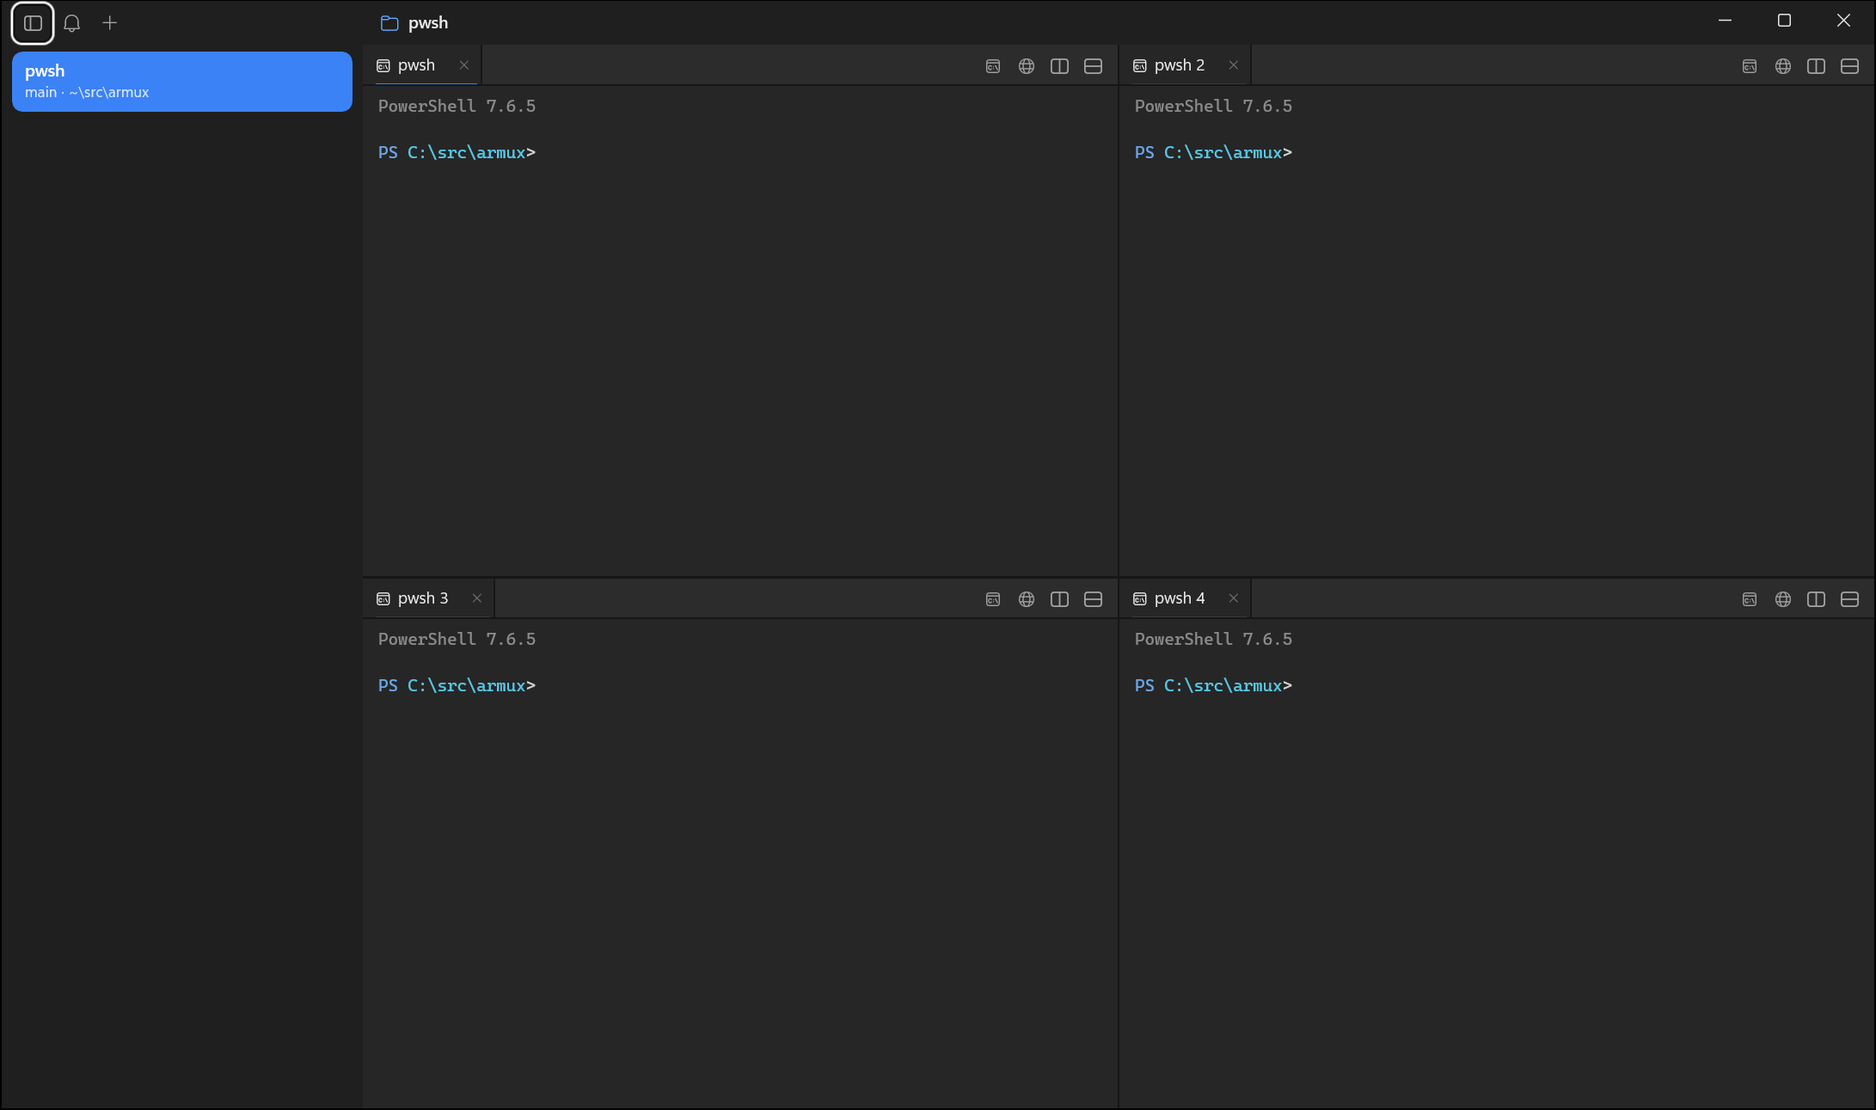
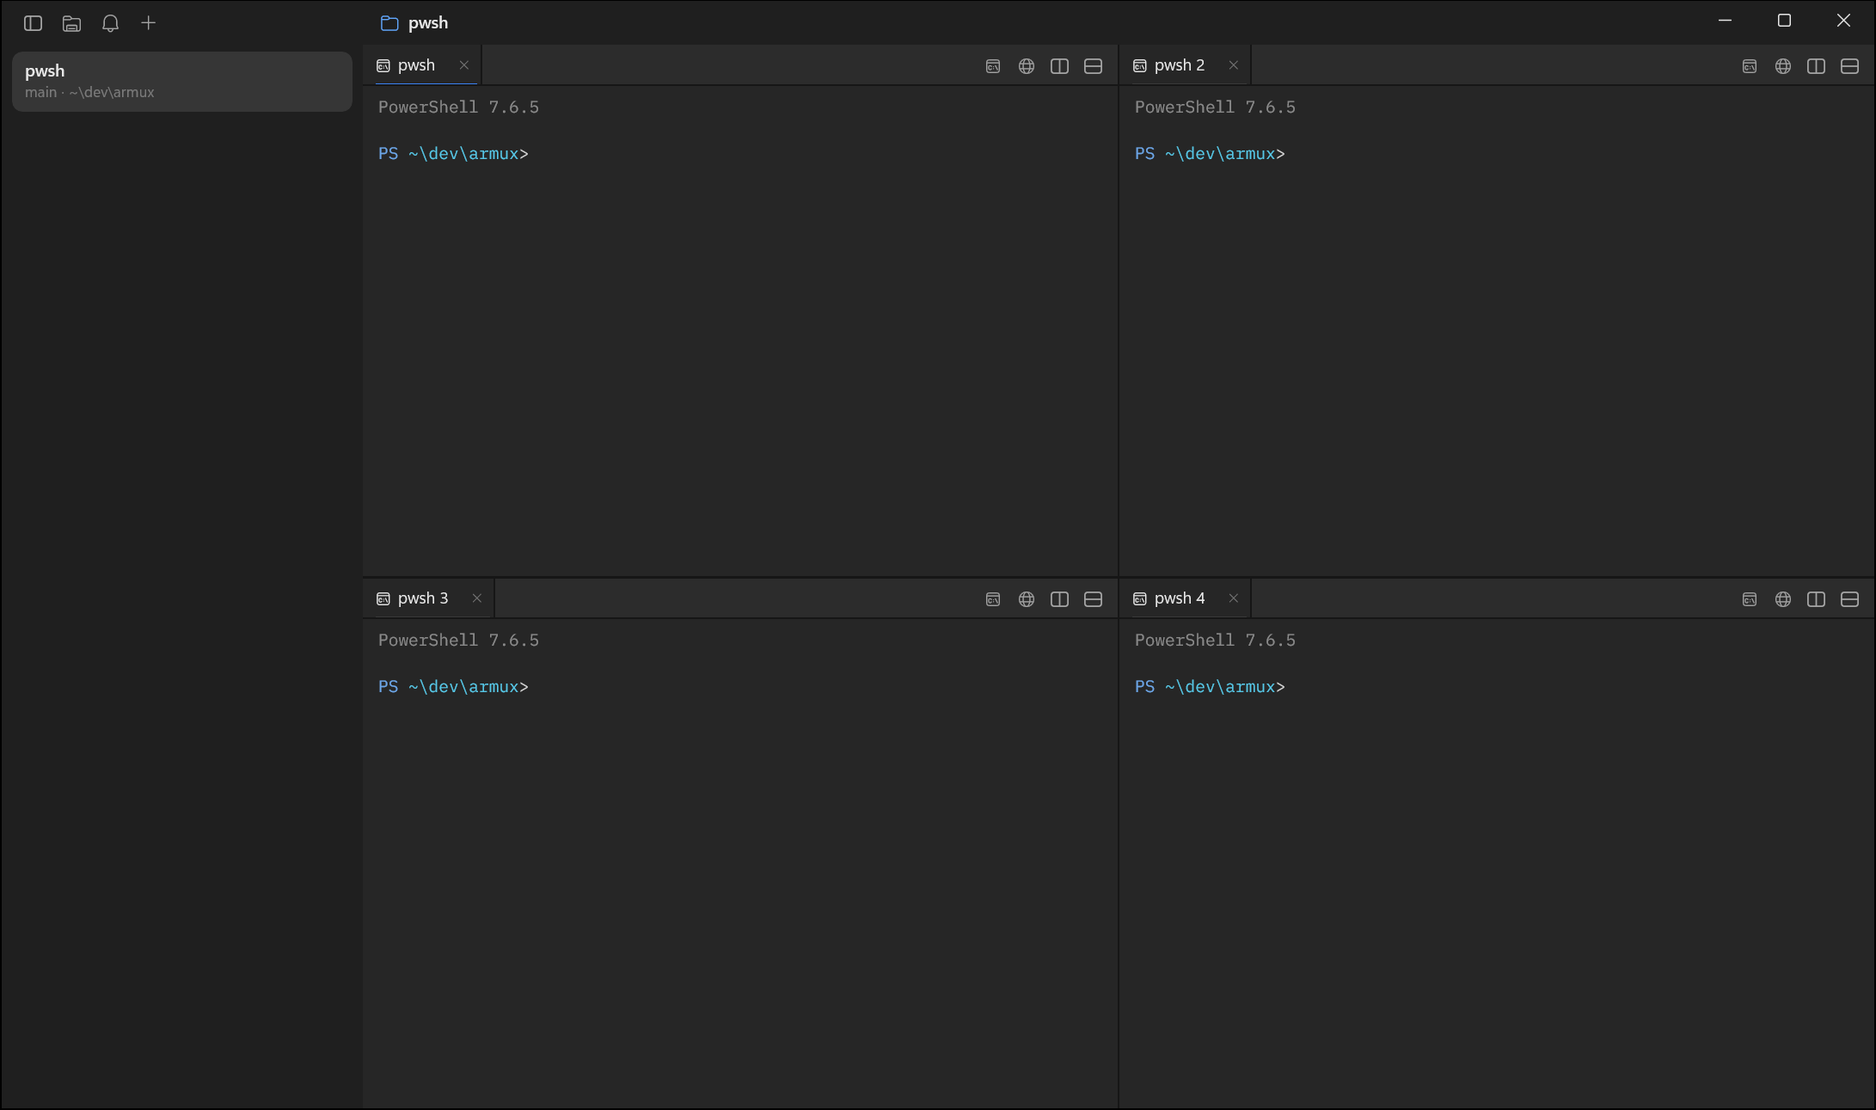
docs: record review round 1 changes, memory results and deviations
Adds deviations D-12 to D-17, the new shortcuts, the Lilex entry and
OFL-1.1 (fonts only) in the dependency register, explorer memory
results, and screenshots 11 (explorer) and 12 (settings). Screenshots
01-09 are regenerated with the gray selection.

diff --git a/ARCHITECTURE.md b/ARCHITECTURE.md
@@ -1,6 +1,6 @@
 # armux architecture
 
-Status: **Phase 2 complete, awaiting maintainer review.** The cmux-style UI runs on mock data, built with WinUI 3 and published as NativeAOT. Measurements are in section 7. Sections marked _Phase 3_ are plans. Nothing in this file claims a measured number unless it gives the method and date.
+Status: **Phase 2 complete; review round 1 changes applied (2026-10-26), awaiting maintainer review.** The cmux-style UI runs on mock data, built with WinUI 3 and published as NativeAOT. Measurements are in section 7. Sections marked _Phase 3_ are plans. Nothing in this file claims a measured number unless it gives the method and date.
 
 ## 1. Scope
 
@@ -72,7 +72,7 @@ Every UI element traces to a cmux feature. Windows deviations link to section 9.
 | cmux feature (source) | armux element | Phase 2 status | Screenshot | Deviation |
 |---|---|---|---|---|
 | Vertical sidebar of workspaces: title, latest notification text, branch, directory, ports, PR (README) | `SidebarRow` | Done (mock data) | 01 | — |
-| Unread badge on the workspace row, row lights up when an agent needs attention (README) | Badge on the row; inverted on the selected row | Done | 01, 09 | — |
+| Unread badge on the workspace row, row lights up when an agent needs attention (README) | Badge on the row | Done | 01, 09 | D-12 |
 | Tab colors: right-click a workspace, 17 presets or custom; color on the tab and the indicator rail (changelog 0.61.0) | Context menu, swatch flyout, `ColorPicker` for custom | Done | 04, 05 | D-10 |
 | Workspace indicator style Accent / Underline / None (cmux settings) | Left rail (default) or underline; palette commands switch it | Done | 01 | — |
 | Pin a workspace to the top (changelog 0.61.0) | Pin from the context menu, pin glyph on the row | Done | 01 | — |
@@ -84,19 +84,21 @@ Every UI element traces to a cmux feature. Windows deviations link to section 9.
 | Notification panel `⌘I`, jump to latest unread `⌘⇧U`, toggle unread, mark all read, clear (README) | Bell flyout with count, palette commands | Done | 03 | D-04 |
 | Flash focused panel `⌘⇧H` (README) | Ring pulse animation | Done | — | — |
 | Theme follows system / light / dark (cmux settings) | Dark and light token sets, "Match Windows" command | Done | 07 | D-07 |
-| Clear scrollback, font size | Clear scrollback (mock) | Partial: font size in Phase 3 | — | — |
+| Clear scrollback, font size | Clear scrollback (mock); font size commands | Done | — | — |
+| Settings window `⌘,` (cmux settings) | Settings dialog: terminal font and size, interface font | Done (fonts only) | 12 | D-15, D-16 |
+| _Not in cmux:_ Warp's file tree (docs.warp.dev, "File Tree") | `ExplorerPanel` beside the sidebar, read-only `FileView` tabs | Done | 11 | D-13, D-17 |
 | Desktop notification when a process needs attention (README) | Windows toast | Phase 3 | — | D-04 |
 | OSC 9, OSC 99, OSC 777 detection (README) | OSC parser in the terminal pipeline | Phase 3 (Phase 2 has "Simulate Agent Notification") | — | — |
 | `cmux notify` CLI, socket API (README) | `armux notify`, named-pipe API | Phase 3 | — | D-06 |
-| Find, find in directory, settings window, session restore | — | Phase 3 or later | — | — |
+| Find, find in directory, session restore | — | Phase 3 or later | — | — |
 | SSH workspaces, Cloud workspaces, Claude Code Teams, browser import | — | Not planned | — | — |
 
 ### Comparison with cmux screenshots
 
 Compared by eye against cmux's README images `main-first-image.png`, `vertical-horizontal-tabs-and-splits.png`, `notification-rings.png`, `sidebar-notification-badge.png` and `built-in-browser.png`.
 
-- **Matches:** title row with sidebar toggle, bell with count and `+`, then folder icon and workspace title. Selected workspace as a filled blue rounded block with white text. Badge, title, notification text and `branch · directory` lines. Per-pane tab bars with the four action buttons. Blue ring on panes needing attention. Browser panel with back, forward, reload and an address bar. Thin dividers between panes.
-- **Differs, by request:** Windows caption buttons on the right instead of macOS traffic lights (D-08). Segoe UI Variable instead of SF Pro (D-09).
+- **Matches:** title row with sidebar toggle, bell with count and `+`, then folder icon and workspace title. Selected workspace as a filled rounded block (gray in armux, D-12). Badge, title, notification text and `branch · directory` lines. Per-pane tab bars with the four action buttons. Blue ring on panes needing attention. Browser panel with back, forward, reload and an address bar. Thin dividers between panes.
+- **Differs, by request:** Windows caption buttons on the right instead of macOS traffic lights (D-08). Segoe UI Variable instead of SF Pro, Lilex for terminals (D-09, D-15). Gray selected workspace (D-12). File explorer button and column (D-13).
 - **Differs, not yet built:** cmux's terminal content is a real Ghostty terminal; armux shows static mock text until Phase 3. cmux's address bar row has extra browser tool icons, which armux omits.
 
 ## 6. Stack
@@ -197,6 +199,30 @@ Same device as section 6. Window 1440×900 physical pixels at 150% scale. Settle
 
 The same scenarios with the JIT build (`dotnet build`) measured idle 134.9 / 56.6 / 34.5 and start 320 ms. Browser-closed retained 122.7 MB private there. The managed heap was 0.8 MB, so that memory was .NET runtime and native commit. Shipping AOT avoids it.
 
+### Review round 1 results (2026-10-26, same build settings)
+
+Measured after the round 1 changes (gray selection, Lilex, settings, file explorer). App-attributable, MB. Explorer runs show this repository.
+
+| Scenario | Working set | Private | Task Manager | Note |
+|---|---|---|---|---|
+| Idle (3 runs) | 94.2–95.7 | 46.1–46.4 | 24.7–25.6 | Same as Phase 2. Lilex instead of Cascadia Mono: +1.3 private. |
+| 8 panes | 110.5 | 61.4 | 40.6 | — |
+| Explorer open (3 runs) | 100.8–105.5 | 52.3–57.2 | 30.4–35.5 | About +6 private over idle |
+| Explorer closed after one open (3 runs) | 100.6–104.2 | 51.6–56.2 | 30.4–33.5 | One-time cost stays (see below) |
+| Explorer opened and closed 1, 5, 20, 40, 80 times | 108.1–108.5 | 54.9–56.3 | 33.6–34.3 | Flat: no growth per cycle |
+| Browser open / closed | 411.3 / 11.7 | 168.8 / 49.4 | 93.0 / 4.6 | Same as Phase 2 |
+| Demo with explorer open | 428.9 | 183.3 | 109.0 | — |
+| Cold start, idle, median of 10 | 232–248 ms | | | The Phase 2 commit measured 231 ms in the same session, so the change from 156 ms is machine state, not code. |
+
+Explorer findings:
+
+- The first version created the panel on open and dropped it on close. It grew **1.9 MB private per open/close cycle** (127 MB after 40 cycles). The released rows' native XAML objects are freed only when their managed wrappers are collected, and an idle app rarely collects. Collecting on close cut the growth to 0.3 MB per cycle.
+- The shipped version keeps one panel, drops its rows, listings and file watchers when hidden, and collects once on close. 80 cycles stay flat at 55–56 MB private.
+- About 7 MB private stays after the first open (XAML templates, the icon font, text caches). The idle target (≤ 60 MB private) still holds.
+- Trimming the working set on close was tried and rejected. It lowered the working-set and Task Manager numbers but not private bytes, so it only made the numbers look better.
+
+The open/close cycles were driven through UI Automation (`InvokePattern` on the explorer button), which sends no input to other windows.
+
 Not yet measured: the per-pane cost of a real terminal (ConPTY host + shell + renderer). That comes in Phase 3, and the per-pane target applies again then.
 
 ### Browser panel policy (implemented in `BrowserHost`)
@@ -217,13 +243,13 @@ cmux binds ⌘, which Windows doesn't have. Plain Ctrl+letter can't be used, bec
 - ⌥⌘ to **Ctrl+Alt**
 - ⌃⌘ to **Alt+Shift**
 
-Exceptions are marked with *. Verified by injected key presses (`scripts/screenshot.ps1 -Keys`, screenshot 10): Ctrl+Shift+D, Ctrl+Alt+Shift+D, Ctrl+Shift+T, Ctrl+Shift+N, Ctrl+Shift+1, Ctrl+Shift+P. The other bindings are registered but not yet tested by injection.
+Exceptions are marked with *. Verified by injected key presses (`scripts/screenshot.ps1 -Keys`, screenshot 10, and review round 1): Ctrl+Shift+D, Ctrl+Alt+Shift+D, Ctrl+Shift+T, Ctrl+Shift+N, Ctrl+Shift+1, Ctrl+Shift+P, Ctrl+2, Ctrl+PageDown, Ctrl+Shift+E, Ctrl+Shift+= (one press). The other bindings are registered but not yet tested by injection.
 
 | Action | cmux | armux |
 |---|---|---|
 | New workspace | ⌘N | Ctrl+Shift+N |
-| Jump to workspace 1 to 8 / last | ⌘1–8 / ⌘9 | Ctrl+Shift+1–8 / Ctrl+Shift+9 |
-| Next / previous workspace | ⌃⌘] / ⌃⌘[ | Alt+Shift+] / Alt+Shift+[ |
+| Jump to workspace 1 to 8 / last | ⌘1–8 / ⌘9 | Ctrl+1–8 / Ctrl+9 * (D-14), also Ctrl+Shift+1–8 / Ctrl+Shift+9 |
+| Next / previous workspace | ⌃⌘] / ⌃⌘[ | Ctrl+PageDown / Ctrl+PageUp * (D-14), also Alt+Shift+] / Alt+Shift+[ |
 | Close workspace | ⌘⇧W | Ctrl+Alt+Shift+W |
 | Rename workspace | ⌘⇧R | Ctrl+Alt+Shift+R |
 | Toggle sidebar | ⌘B | Ctrl+Shift+B |
@@ -233,6 +259,8 @@ Exceptions are marked with *. Verified by injected key presses (`scripts/screens
 | Jump to surface 1 to 8 / last | ⌃1–8 / ⌃9 | Alt+1–8 / Alt+9 * (Ctrl+digit sends legacy control codes) |
 | Split right / down | ⌘D / ⌘⇧D | Ctrl+Shift+D / Ctrl+Alt+Shift+D |
 | Focus pane | ⌥⌘ arrows | Ctrl+Alt+arrows |
+| Focus next / previous pane | — | F6 / Shift+F6 * (D-14) |
+| File explorer | — (Warp: left panel ⌘\) | Ctrl+Shift+E * (D-13) |
 | Resize pane | ⌃⇧ H J K L | Alt+Shift+arrows * (Ctrl+Shift+K/L are taken by ⌘K/⌘L) |
 | Toggle pane zoom | ⌘⇧↩ | Ctrl+Alt+Shift+Enter |
 | Equalize splits | ⌃⌘⇧= | Ctrl+Alt+= * |
@@ -246,7 +274,9 @@ Exceptions are marked with *. Verified by injected key presses (`scripts/screens
 | Toggle unread | ⌥⌘U | Ctrl+Alt+U |
 | Clear scrollback | ⌘K | Ctrl+Shift+K |
 | New window | ⌘⇧N | Ctrl+Alt+Shift+N |
-| Find, copy/paste, font size, settings | ⌘F, ⌘C/⌘V, ⌘+/⌘-, ⌘, | Phase 3 |
+| Font size bigger / smaller / reset | ⌘+ / ⌘- / ⌘0 | Ctrl+Shift+= / Ctrl+Shift+- / Ctrl+Shift+0 |
+| Settings | ⌘, | Ctrl+Shift+, |
+| Find, copy/paste | ⌘F, ⌘C/⌘V | Phase 3 |
 | Quit | ⌘Q | Alt+F4 |
 
 ## 9. Windows deviations
@@ -261,19 +291,26 @@ Exceptions are marked with *. Verified by injected key presses (`scripts/screens
 | D-06 | Unix socket API | Named pipe `\\.\pipe\armux-<user>` (Phase 3) | Windows-native IPC. |
 | D-07 | Reads Ghostty config for themes | Own dark and light tokens (`Theme.cs`) | Ghostty has no Windows build. |
 | D-08 | macOS traffic-light window buttons on the left | Windows caption buttons on the right | Maintainer request: macOS-only chrome is replaced by Windows chrome. |
-| D-09 | SF Pro | Segoe UI Variable (Windows 11 system font), Cascadia Mono for terminals | Maintainer request; SF Pro is not licensed for Windows apps. |
+| D-09 | SF Pro | Segoe UI Variable (Windows 11 system font) for the interface | Maintainer request; SF Pro is not licensed for Windows apps. Terminal font: D-15. |
 | D-10 | Color presets in the right-click menu | Right-click menu opens a 17-swatch flyout | A swatch grid is quicker to scan than 17 text items in a Windows menu. |
 | D-11 | App and CLI both named `cmux` | App `ArmuxApp.exe`; `armux.exe` is reserved for the CLI | Windows file names are case-insensitive, so the app and CLI need different names in one folder. |
+| D-12 | Selected workspace is a blue block with white text | Gray block (lighter than hover) with normal text colors; the unread badge stays blue | Maintainer request (2026-10-26): on blue, the workspace color rail was hard to see. |
+| D-13 | No file explorer | Warp-style file tree, hidden by default. A title-bar button left of the bell, or Ctrl+Shift+E, opens it as a column beside the sidebar, never in place of it. It shows the current workspace's directory; a missing directory falls back to its nearest existing parent. Click opens a file. Context menu: open in new tab, open in new pane, copy path, copy relative path, new file (folders), reveal in File Explorer, open with default app. Icons for common file types; the folders on screen are watched for changes. | Maintainer request (2026-10-26). Warp's "Attach as context" becomes "Insert path in terminal", shown disabled until Phase 3 has real terminals. |
+| D-14 | ⌘1–9 and ⌃⌘] / ⌃⌘[ switch workspaces | Ctrl+1–9 and Ctrl+PageDown / Ctrl+PageUp added; F6 / Shift+F6 cycle panes | Maintainer request (2026-10-26). Ctrl+Shift+Tab stays "previous tab", its standard meaning. Ctrl+digit no longer reaches the shell (Ctrl+2 to Ctrl+7 send rarely used legacy control codes). |
+| D-15 | Terminal font from the Ghostty config | Lilex, Zed's default font since 2025, is bundled and the default; any installed font can be chosen | Maintainer request (2026-10-26). |
+| D-16 | Native macOS settings window | `ContentDialog` with terminal font, size (− / + stepper) and interface font, saved to `%LOCALAPPDATA%\armux\settings.json` (`ARMUX_SETTINGS_FILE` overrides the path) | WinUI's `NumberBox` crashes NativeAOT builds (missing `TabViewScrollButtonBackground` resource), so the size uses buttons. |
+| D-17 | Warp opens files in its code editor | Read-only `FileView` tab in the terminal font: first 256 KB; binary files get an "Open with default app" button | armux has no editor; building one is out of scope. |
 
 ## 10. Dependency register
 
-Allowed licenses, direct and transitive: MIT, Apache-2.0, BSD (any clause count), Unicode-3.0 and Zlib. The Windows App SDK is approved as a platform SDK (2026-10-25, when the maintainer chose WinUI). Anything else stops for maintainer review.
+Allowed licenses, direct and transitive: MIT, Apache-2.0, BSD (any clause count), Unicode-3.0 and Zlib. The Windows App SDK is approved as a platform SDK (2026-10-25, when the maintainer chose WinUI). SIL OFL-1.1 is approved **for bundled fonts only** (2026-10-26, Lilex). Anything else stops for maintainer review.
 
 | Dependency | Where | License | Why |
 |---|---|---|---|
 | Microsoft.WindowsAppSDK 1.8.260921001 | App | Microsoft Software License Terms (approved platform SDK) | WinUI 3, windowing, title bar |
 | Microsoft.Web.WebView2 (transitive) | App | BSD-3-Clause | Browser panel |
 | Microsoft.Windows.SDK.BuildTools (transitive) | Build only | Microsoft Software License Terms | WinRT projections at build time |
+| Lilex 2.630 (`Lilex[wght].ttf`, shipped as `Assets/Fonts/Lilex-VF.ttf`) | App | SIL OFL-1.1 (approved for fonts); `OFL.txt` ships beside it | Default terminal font |
 | MSTest.Sdk 4.0.2 | Tests only | MIT | Unit tests |
 | `actions/checkout@v7`, `actions/cache@v6`, `actions/upload-artifact@v7`, `actions/setup-dotnet@v6` | CI | MIT | Check out, cache NuGet, install .NET, publish the build |
 

diff --git a/README.md b/README.md
@@ -12,7 +12,7 @@ A terminal workspace app for **Windows 11 on ARM64**, modeled on [cmux](https://
 
 - **Native ARM64.** Built with WinUI 3 and published as NativeAOT for `win-arm64`. CI checks the release binary has PE machine type `0xAA64`, so it never runs under x64 emulation.
 - **cmux's UI and model.** The same Window > Workspace > Pane > Surface hierarchy, workspace colors, notification rings, command palette and a shortcut layout mapped to Windows. Every UI element traces to a cmux feature ([traceability table](ARCHITECTURE.md#5-feature-traceability)).
-- **Measured memory.** Idle on a Surface Laptop 7: about 95 MB working set, 47 MB private and 25 MB in Task Manager, starting in 156 ms. Numbers for every scenario, including the browser panel, are in [ARCHITECTURE.md](ARCHITECTURE.md#7-memory-budget), with the scripts to reproduce them.
+- **Measured memory.** Idle on a Surface Laptop 7: about 95 MB working set, 47 MB private and 25 MB in Task Manager, starting in 156–250 ms depending on machine state. Numbers for every scenario, including the browser panel, are in [ARCHITECTURE.md](ARCHITECTURE.md#7-memory-budget), with the scripts to reproduce them.
 
 ## Features
 
@@ -24,12 +24,15 @@ A terminal workspace app for **Windows 11 on ARM64**, modeled on [cmux](https://
 | Command palette (`Ctrl+Shift+P`) with inline shortcuts and workspace switching | Done |
 | Notification rings, tab dots, bell with unread count, notification panel, jump to latest unread | Done (simulated notifications) |
 | Built-in browser panel (WebView2): lazy, suspended when hidden, at most 2 live, fully released when closed | Done (mock page) |
+| File explorer beside the sidebar (`Ctrl+Shift+E`), modeled on Warp's file tree: open files as read-only tabs or panes, copy paths, new file, reveal in File Explorer | Done (hidden by default) |
+| Keyboard switching: `Ctrl+1`–`9` and `Ctrl+PageUp`/`PageDown` for workspaces, `F6` and `Ctrl+Alt+arrows` for panes | Done |
+| Terminal font: Lilex (Zed's default) bundled; any installed font and size in Settings (`Ctrl+Shift+,`) | Done |
 | Dark and light themes | Done |
 | PowerShell 7, cmd and WSL through ConPTY | Phase 3 |
 | OSC 9 / 99 / 777 notification detection, Windows toasts | Phase 3 |
 | `armux notify` CLI and named-pipe API | Phase 3 |
 
-More screenshots: [command palette](docs/screenshots/02-command-palette.png), [notifications](docs/screenshots/03-notifications.png), [workspace colors](docs/screenshots/05-workspace-colors.png), [zoomed pane](docs/screenshots/06-zoomed-pane.png), [light theme](docs/screenshots/07-light-theme.png), [four-pane grid](docs/screenshots/08-four-pane-grid.png).
+More screenshots: [command palette](docs/screenshots/02-command-palette.png), [notifications](docs/screenshots/03-notifications.png), [workspace colors](docs/screenshots/05-workspace-colors.png), [zoomed pane](docs/screenshots/06-zoomed-pane.png), [light theme](docs/screenshots/07-light-theme.png), [four-pane grid](docs/screenshots/08-four-pane-grid.png), [file explorer](docs/screenshots/11-file-explorer.png), [settings](docs/screenshots/12-settings.png).
 
 ## Requirements
 
@@ -67,4 +70,4 @@ Contributions are welcome, especially from people on Windows on ARM hardware. St
 
 ## License
 
-[MIT](LICENSE)
+[MIT](LICENSE). The bundled [Lilex](https://github.com/mishamyrt/Lilex) font is under the SIL Open Font License 1.1 ([`OFL.txt`](src/Armux.App/Assets/Fonts/OFL.txt)).

diff --git a/CONTRIBUTING.md b/CONTRIBUTING.md
@@ -7,7 +7,7 @@ Thanks for helping. armux is a Windows on ARM64 project. Most of this guide is a
 1. **No cmux code.** cmux is GPL-3.0-or-later and armux is MIT. Do not copy, paste or translate cmux source, assets or screenshots. Build from cmux's public docs and observed behavior. If you have read cmux's source for a feature, say so in the PR so a reviewer can check the result is an independent implementation.
 2. **Every UI element traces to a cmux feature.** Link the cmux README or docs section in your PR. Windows-specific differences go in [ARCHITECTURE.md, section 9](ARCHITECTURE.md#9-windows-deviations).
 3. **Memory is a feature.** UI or runtime changes include before and after numbers from `scripts/measure-memory.ps1`.
-4. **Dependencies are rare.** Only MIT, Apache-2.0, BSD, Unicode-3.0 or Zlib licenses, including transitive dependencies. Add each one to the [dependency register](ARCHITECTURE.md#10-dependency-register) with a reason. Prefer the base class library or a few lines of code over a package.
+4. **Dependencies are rare.** Only MIT, Apache-2.0, BSD, Unicode-3.0 or Zlib licenses, including transitive dependencies. Bundled fonts may also be SIL OFL-1.1, shipped with their `OFL.txt`. Add each one to the [dependency register](ARCHITECTURE.md#10-dependency-register) with a reason. Prefer the base class library or a few lines of code over a package.
 5. **ARM64 only.** No macOS, Linux or x64 targets.
 
 ## Setup
@@ -39,7 +39,9 @@ dotnet publish src/Armux.App -c Release -r win-arm64 -p:Platform=ARM64 -o publis
 pwsh scripts/check-pe-arm64.ps1 publish/ArmuxApp.exe
 ```
 
-Useful launch flags for UI work: `--scenario demo|idle|panes|browser`, `--panes N`, `--theme light`, `--palette`, `--notifications`, `--zoom`, `--select N` (see `src/Armux.App/LaunchOptions.cs`). `scripts/screenshot.ps1` captures the window, and `scripts/bench.ps1` measures start-up and memory.
+Useful launch flags for UI work: `--scenario demo|idle|panes|browser`, `--panes N`, `--theme light`, `--palette`, `--notifications`, `--zoom`, `--select N`, `--explorer`, `--settings` (see `src/Armux.App/LaunchOptions.cs`). Set `ARMUX_SETTINGS_FILE` to a scratch path so screenshots and measurements use default fonts, not your own settings. `scripts/screenshot.ps1` captures the window, and `scripts/bench.ps1` measures start-up and memory.
+
+`screenshot.ps1 -Keys` and `-Clicks` send real input. They check that armux is the foreground window before each key or click and stop otherwise, but run them only when you are not using the machine. For repeated actions, prefer UI Automation (icon buttons carry automation names), which sends no input to other windows.
 
 ### Common ARM64 traps
 
